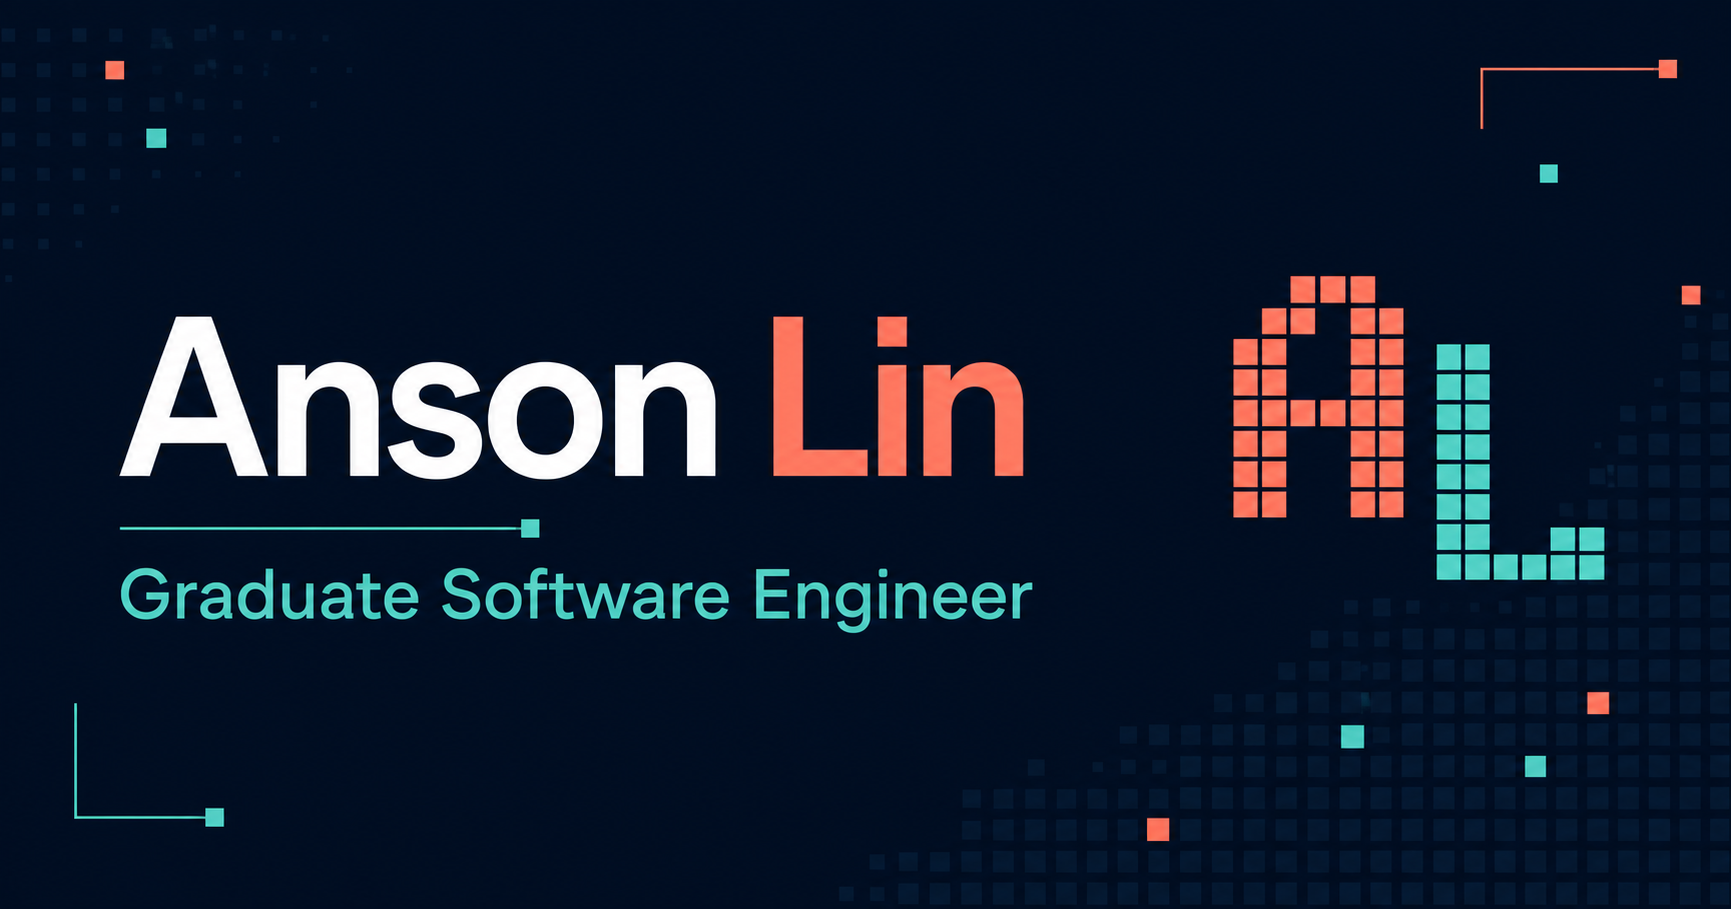
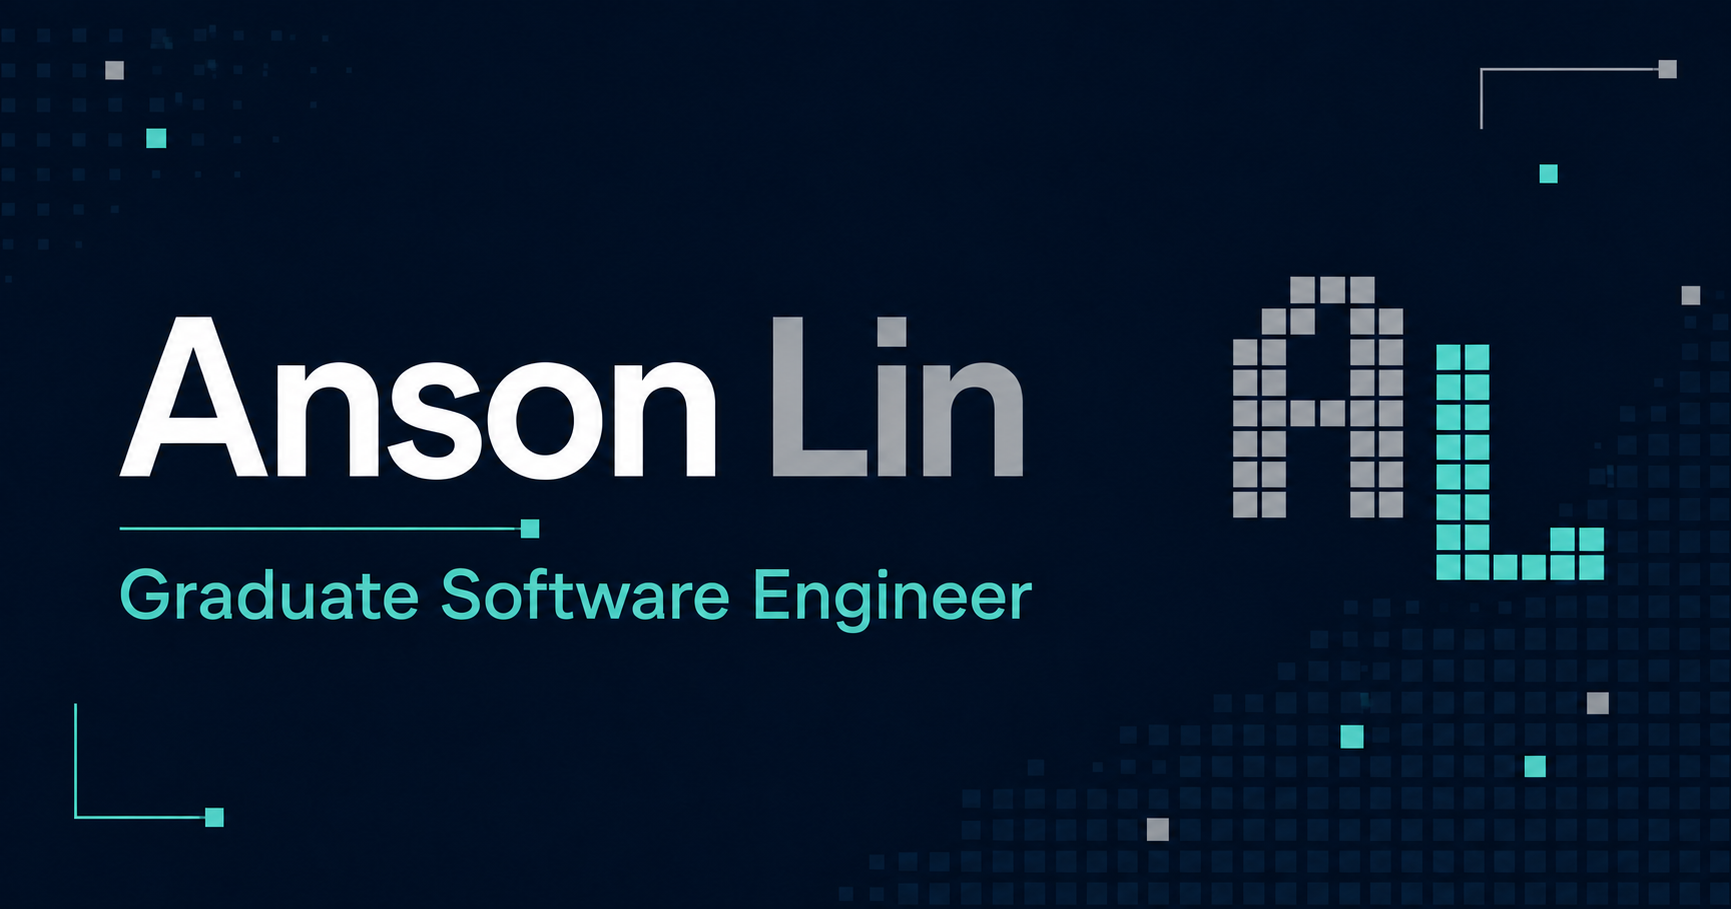
style: update portfolio accent color

diff --git a/src/styles/global.css b/src/styles/global.css
@@ -1,4 +1,4 @@
-:root{font-family:Inter,ui-sans-serif,system-ui,sans-serif;color:#e9eef5;background:#07111f;--coral:#ff816d;--teal:#54d6c4;--muted:#9eafc2;--line:#20334a}*{box-sizing:border-box}html{scroll-behavior:smooth}body{margin:0;background:radial-gradient(circle at 80% 0,#162d43 0,transparent 36rem),#07111f;line-height:1.6}a{color:inherit}header{height:76px;display:flex;align-items:center;gap:2rem;padding:0 max(1.25rem,calc((100% - 1120px)/2));position:sticky;top:0;z-index:3;background:#07111fe8;backdrop-filter:blur(12px);border-bottom:1px solid var(--line)}.brand{font-weight:900;font-size:1.3rem;text-decoration:none;margin-right:auto}.brand span,.eyebrow{color:var(--coral)}nav{display:flex;align-items:center;gap:1.2rem}nav a{text-decoration:none;color:var(--muted);font-size:.9rem}nav a:hover{color:#fff}.resume,.button{border:1px solid var(--coral);padding:.55rem .9rem;border-radius:4px;text-decoration:none}.menu{display:none}.command{background:none;color:var(--muted);border:1px solid var(--line);padding:.5rem}.skip{position:absolute;left:-999px}.skip:focus{left:1rem;top:1rem;background:#fff;color:#000;padding:.5rem;z-index:9}main{max-width:1120px;margin:auto;padding:0 1.25rem}section{padding:6rem 0;scroll-margin-top:80px}.hero{min-height:620px;display:flex;align-items:center;gap:4rem}.hero>div:first-child{max-width:700px}h1{font-size:clamp(3rem,8vw,6.5rem);line-height:.98;letter-spacing:-.06em;margin:1rem 0 1.5rem}h2{font-size:clamp(2rem,4vw,3.5rem);line-height:1.05;margin:.7rem 0 2rem;letter-spacing:-.04em}h3{font-size:1.35rem;margin:.5rem 0}.lede{font-size:1.3rem;color:var(--muted);max-width:650px}.actions{display:flex;gap:1rem;margin-top:2rem}.button{display:inline-block}.primary{background:var(--coral);color:#1b1520;border-color:var(--coral);font-weight:700}.avatar{width:190px;height:190px;border:2px solid var(--teal);display:grid;place-items:center;color:var(--teal);font-weight:900;font-size:3rem;box-shadow:12px 12px 0 #16334a}.grid,.cap-grid{display:grid;grid-template-columns:repeat(3,1fr);gap:1rem}.card,.cap{border:1px solid var(--line);padding:1.5rem;background:#0b1b2b}.card{min-height:240px}.card p,.cap p,.contact p{color:var(--muted)}.eyebrow{font:700 .75rem ui-monospace,monospace;letter-spacing:.1em;text-transform:uppercase}.text-link{color:var(--teal);text-decoration:none}.memory{margin-top:1rem;display:flex;justify-content:space-between;align-items:end;min-height:auto}.cap-grid{grid-template-columns:repeat(5,1fr)}.cap span{color:var(--coral);font-family:monospace}.timeline{border-left:2px solid var(--teal);padding-left:1.5rem;display:grid;gap:2rem}.timeline div{display:grid}.timeline span,.case-meta span{color:var(--muted)}.contact{border-top:1px solid var(--line);display:flex;justify-content:space-between;gap:2rem}.contact-links{display:grid;gap:.5rem;color:var(--teal)}footer{max-width:1120px;margin:auto;padding:2rem 1.25rem;color:var(--muted);font-size:.8rem}.case{padding-top:4rem}.back{color:var(--teal);display:block;margin-bottom:4rem}.case-meta{display:flex;gap:3rem;border-block:1px solid var(--line);padding:1.5rem 0;margin:3rem 0;flex-wrap:wrap}.case-meta span{display:grid}.case-meta b{color:#fff;font-size:.75rem;text-transform:uppercase}.case section{padding:2.5rem 0;max-width:760px}.case h1{max-width:850px}.case li{margin:.8rem 0;color:var(--muted)}.flow{display:grid;gap:.75rem}.flow div{padding:1rem;border:1px solid var(--line);background:#0b1b2b}.flow span{color:var(--coral);font-family:monospace;margin-right:1rem}.not-found{padding-top:12rem;min-height:80vh}.palette{position:fixed;inset:20% auto auto 50%;transform:translateX(-50%);z-index:5;background:#102337;border:1px solid var(--teal);padding:1rem;width:min(90%,450px);display:grid;gap:.5rem}.palette input{padding:.8rem;background:#07111f;border:1px solid var(--line);color:#fff}@media(max-width:700px){header{gap:1rem}nav{display:none;position:absolute;top:76px;left:0;right:0;background:#07111f;padding:1rem 1.25rem;flex-direction:column;align-items:stretch;border-bottom:1px solid var(--line)}nav[data-open=true]{display:flex}.menu{display:block;background:none;color:#fff;border:1px solid var(--line);padding:.5rem}.command{font-size:0}.command:after{content:'⌘';font-size:1rem}.hero{display:block;padding-top:5rem}.avatar{margin-top:3rem}.grid,.cap-grid{grid-template-columns:1fr}.contact{display:grid}.actions{flex-wrap:wrap}.case-meta{display:grid;gap:1rem}}
+:root{font-family:Inter,ui-sans-serif,system-ui,sans-serif;color:#e9eef5;background:#07111f;--coral:#A4A9AD;--teal:#54d6c4;--muted:#9eafc2;--line:#20334a}*{box-sizing:border-box}html{scroll-behavior:smooth}body{margin:0;background:radial-gradient(circle at 80% 0,#162d43 0,transparent 36rem),#07111f;line-height:1.6}a{color:inherit}header{height:76px;display:flex;align-items:center;gap:2rem;padding:0 max(1.25rem,calc((100% - 1120px)/2));position:sticky;top:0;z-index:3;background:#07111fe8;backdrop-filter:blur(12px);border-bottom:1px solid var(--line)}.brand{font-weight:900;font-size:1.3rem;text-decoration:none;margin-right:auto}.brand span,.eyebrow{color:var(--coral)}nav{display:flex;align-items:center;gap:1.2rem}nav a{text-decoration:none;color:var(--muted);font-size:.9rem}nav a:hover{color:#fff}.resume,.button{border:1px solid var(--coral);padding:.55rem .9rem;border-radius:4px;text-decoration:none}.menu{display:none}.command{background:none;color:var(--muted);border:1px solid var(--line);padding:.5rem}.skip{position:absolute;left:-999px}.skip:focus{left:1rem;top:1rem;background:#fff;color:#000;padding:.5rem;z-index:9}main{max-width:1120px;margin:auto;padding:0 1.25rem}section{padding:6rem 0;scroll-margin-top:80px}.hero{min-height:620px;display:flex;align-items:center;gap:4rem}.hero>div:first-child{max-width:700px}h1{font-size:clamp(3rem,8vw,6.5rem);line-height:.98;letter-spacing:-.06em;margin:1rem 0 1.5rem}h2{font-size:clamp(2rem,4vw,3.5rem);line-height:1.05;margin:.7rem 0 2rem;letter-spacing:-.04em}h3{font-size:1.35rem;margin:.5rem 0}.lede{font-size:1.3rem;color:var(--muted);max-width:650px}.actions{display:flex;gap:1rem;margin-top:2rem}.button{display:inline-block}.primary{background:var(--coral);color:#1b1520;border-color:var(--coral);font-weight:700}.avatar{width:190px;height:190px;border:2px solid var(--teal);display:grid;place-items:center;color:var(--teal);font-weight:900;font-size:3rem;box-shadow:12px 12px 0 #16334a}.grid,.cap-grid{display:grid;grid-template-columns:repeat(3,1fr);gap:1rem}.card,.cap{border:1px solid var(--line);padding:1.5rem;background:#0b1b2b}.card{min-height:240px}.card p,.cap p,.contact p{color:var(--muted)}.eyebrow{font:700 .75rem ui-monospace,monospace;letter-spacing:.1em;text-transform:uppercase}.text-link{color:var(--teal);text-decoration:none}.memory{margin-top:1rem;display:flex;justify-content:space-between;align-items:end;min-height:auto}.cap-grid{grid-template-columns:repeat(5,1fr)}.cap span{color:var(--coral);font-family:monospace}.timeline{border-left:2px solid var(--teal);padding-left:1.5rem;display:grid;gap:2rem}.timeline div{display:grid}.timeline span,.case-meta span{color:var(--muted)}.contact{border-top:1px solid var(--line);display:flex;justify-content:space-between;gap:2rem}.contact-links{display:grid;gap:.5rem;color:var(--teal)}footer{max-width:1120px;margin:auto;padding:2rem 1.25rem;color:var(--muted);font-size:.8rem}.case{padding-top:4rem}.back{color:var(--teal);display:block;margin-bottom:4rem}.case-meta{display:flex;gap:3rem;border-block:1px solid var(--line);padding:1.5rem 0;margin:3rem 0;flex-wrap:wrap}.case-meta span{display:grid}.case-meta b{color:#fff;font-size:.75rem;text-transform:uppercase}.case section{padding:2.5rem 0;max-width:760px}.case h1{max-width:850px}.case li{margin:.8rem 0;color:var(--muted)}.flow{display:grid;gap:.75rem}.flow div{padding:1rem;border:1px solid var(--line);background:#0b1b2b}.flow span{color:var(--coral);font-family:monospace;margin-right:1rem}.not-found{padding-top:12rem;min-height:80vh}.palette{position:fixed;inset:20% auto auto 50%;transform:translateX(-50%);z-index:5;background:#102337;border:1px solid var(--teal);padding:1rem;width:min(90%,450px);display:grid;gap:.5rem}.palette input{padding:.8rem;background:#07111f;border:1px solid var(--line);color:#fff}@media(max-width:700px){header{gap:1rem}nav{display:none;position:absolute;top:76px;left:0;right:0;background:#07111f;padding:1rem 1.25rem;flex-direction:column;align-items:stretch;border-bottom:1px solid var(--line)}nav[data-open=true]{display:flex}.menu{display:block;background:none;color:#fff;border:1px solid var(--line);padding:.5rem}.command{font-size:0}.command:after{content:'⌘';font-size:1rem}.hero{display:block;padding-top:5rem}.avatar{margin-top:3rem}.grid,.cap-grid{grid-template-columns:1fr}.contact{display:grid}.actions{flex-wrap:wrap}.case-meta{display:grid;gap:1rem}}
 @media(prefers-reduced-motion:reduce){html{scroll-behavior:auto}*{animation:none!important;transition:none!important}}
 .filter-group{display:flex;flex-wrap:wrap;gap:.5rem;margin:1rem 0 1.5rem}.filter-button{background:transparent;color:var(--muted);border:1px solid var(--line);padding:.45rem .7rem;cursor:pointer}.filter-button[aria-pressed=true],.filter-button:hover{color:#07111f;background:var(--teal)}[data-project-card][hidden]{display:none}.cap a{text-decoration:underline;text-underline-offset:.16em}.button:focus-visible,a:focus-visible,button:focus-visible,input:focus-visible{outline:3px solid var(--teal);outline-offset:3px}.js nav{display:flex}@media(max-width:899px){.js nav{display:none;position:absolute;top:68px;left:0;right:0;background:#07111f;padding:1rem 1.25rem;flex-direction:column;align-items:stretch;border-bottom:1px solid var(--line)}.js nav[data-open=true]{display:flex}.menu{display:block;background:none;color:#fff;border:1px solid var(--line);padding:.5rem}}
 .project-card,.memory,.cap{min-width:0}.project-card h3,.project-card p,.memory h3,.memory p{overflow-wrap:anywhere}@media(max-width:899px){.site-header{padding-inline:1rem}.site-header .brand{min-width:0}main{padding-inline:1rem}}
